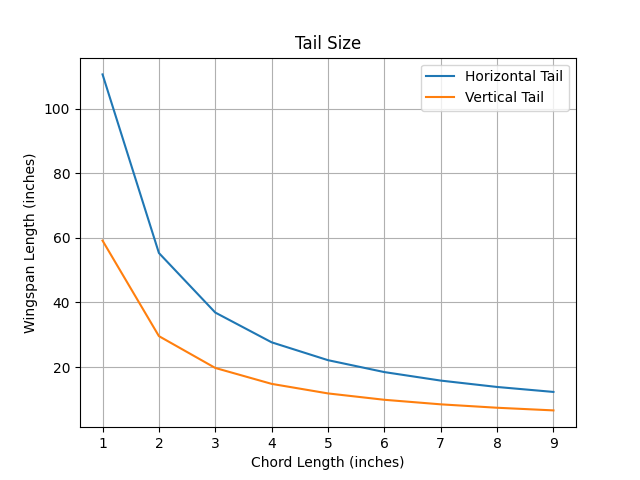
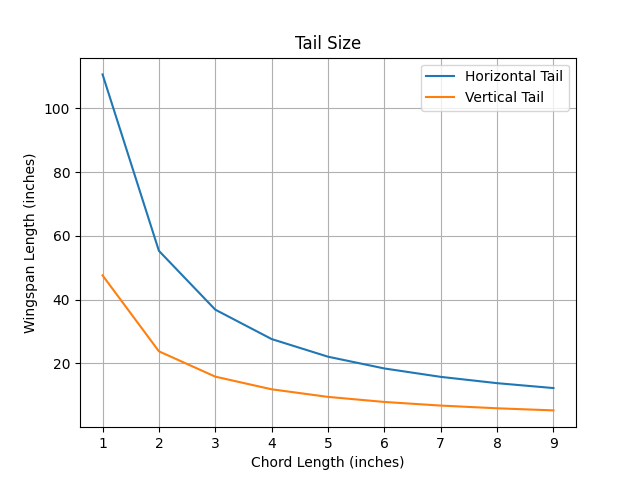
changed wingspan size from 77 to 62 inches. both calculations for stabilizers have been updated

diff --git a/vertical_stabilizer.py b/vertical_stabilizer.py
@@ -16,7 +16,7 @@ S_ref_inch=S_ref_meter.to(ureg.inch**2)
 chord_inch=6.17 * ureg.inch
 chord_meter=chord_inch.to(ureg.meter)
 
-wingspan_inch=77 * ureg.inch 
+wingspan_inch=62 * ureg.inch 
 wingspan_meter=wingspan_inch.to(ureg.meter)
 
 
@@ -28,7 +28,7 @@ wingspan_meter=wingspan_inch.to(ureg.meter)
 C_VT=0.02  # unitless
 
 # Educated guess on what L_VT would be
-L_VT=18 * ureg.inch
+L_VT=11 * ureg.inch
 
 S_VT=C_VT*wingspan_inch*S_ref_inch/L_VT
 print('Surface area of the Vertical Tail is =', S_VT)
@@ -42,13 +42,11 @@ VT_length=S_VT/VT_chord
 
 
 
-plt.plot(HT_chord,HT_length)
 plt.plot(VT_chord,VT_length)
 
-plt.title("Tail Size")
+plt.title("Vertical Stabilizer Size")
 plt.xlabel("Chord Length (inches)")
 plt.ylabel("Wingspan Length (inches)")
-plt.legend(["Horizontal Tail", "Vertical Tail"])
 plt.grid()
 
-plt.savefig('Tail_Sizing.png')
+plt.savefig('Vertical_Stabilizer_Sizing.png')

diff --git a/tail_sizing.py b/tail_sizing.py
@@ -16,7 +16,7 @@ S_ref_inch=S_ref_meter.to(ureg.inch**2)
 chord_inch=9.6 * ureg.inch
 chord_meter=chord_inch.to(ureg.meter)
 
-wingspan_inch=77 * ureg.inch 
+wingspan_inch=62 * ureg.inch 
 wingspan_meter=wingspan_inch.to(ureg.meter)
 
 
